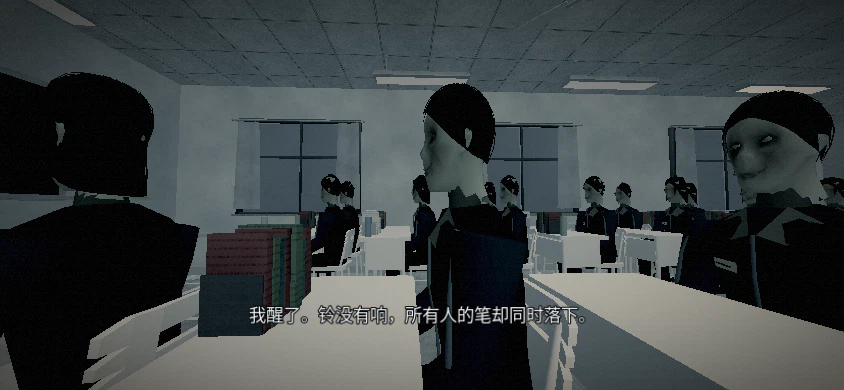
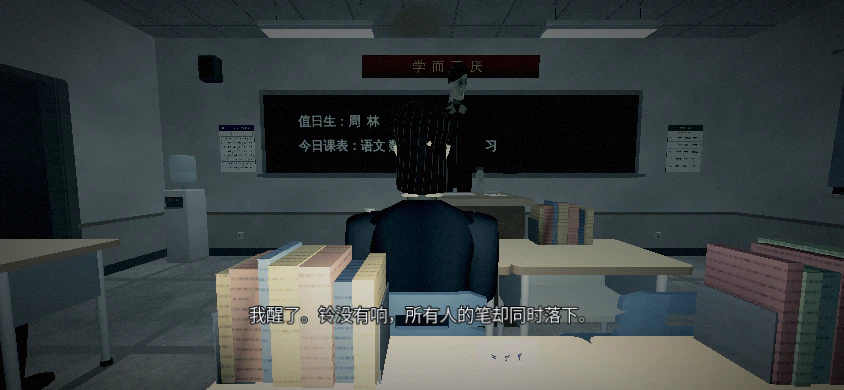
移除同桌的专属旁白与分镜，说明纸样实验的作用

diff --git a/pictures/README.md b/pictures/README.md
@@ -7,7 +7,7 @@
 | 目录 | 内容 |
 | --- | --- |
 | [教学楼北侧柱廊](教学楼北侧柱廊/) | Godot 4.7.2，Vulkan Mobile 软件渲染，960×480，最低画质。座位、教室门内、走廊和广场四张图固定在正午，打开教室门、采用考试光照并隐藏 HUD。课桌材质对照图使用相同条件，左为修复前，右为修复后。另有一张交卷醒来后的走廊实录，保留游戏 11:40 的里世界光照，与正午走廊图使用同一机位。 |
-| [正常校园考试](正常校园考试/) | Godot 4.7.2，Vulkan Mobile 软件渲染，横屏 844×390，最低画质。用界面操作签名、答题、交卷，截图取自角色座位。醒来一帧固定在实际演出的 84% 处。 |
+| [正常校园考试](正常校园考试/) | Godot 4.7.2，Vulkan Mobile 软件渲染，横屏 844×390，最低画质。用界面操作签名、答题、交卷。醒来一帧取自完整分镜时间轴的 89%，玩家正从座位上抬头看向黑板。 |
 | [实景校园](实景校园/) | 2026-11-22，Godot 4.6.3，Vulkan Mobile。固定第一人称相机，使用白日常景光照。两张拼图分别记录改模后的教学楼正门、橙色连廊、球场、地理园，以及教室、化学实验室、宿舍和食堂。 |
 | [里世界师生与异象](里世界师生与异象/) | Godot 4.6.3 Vulkan Mobile，教学楼和大操场。校园实拍展示醒来后的同学、老师、巡察者、做操队列、粉笔字和点名册。动图展示转头、搜查与锁定、做操慢半拍。使用 `tools/capture/capture_otherworld.gd` 固定机位和事件时刻，原始视口 960×540。 |
 | [迁移一致性](迁移一致性) | 原场景边界修复、触屏与特殊空间、隐藏演出等迁移验证；具体批次与限制见[迁移一致性验证](../docs/迁移一致性验证.md)。2026-11-08 新增《盗梦空间》：Godot 4.6.3 Compatibility / Mesa llvmpipe，1280×720；`tools/capture/capture_inception.gd` 经实际拾取、睡眠与坠落触发，注入机位、随机值和 CG 进度，无后期调色。 |
